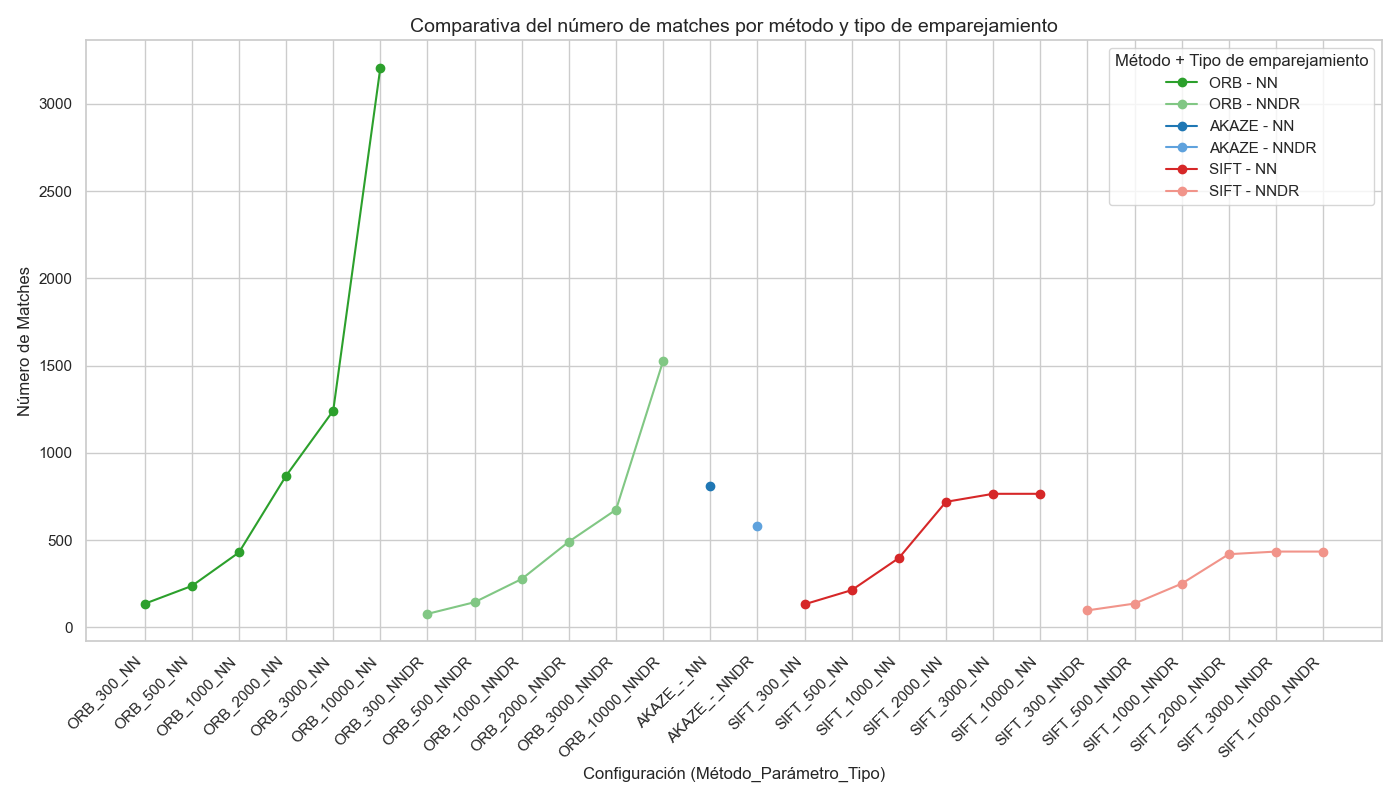
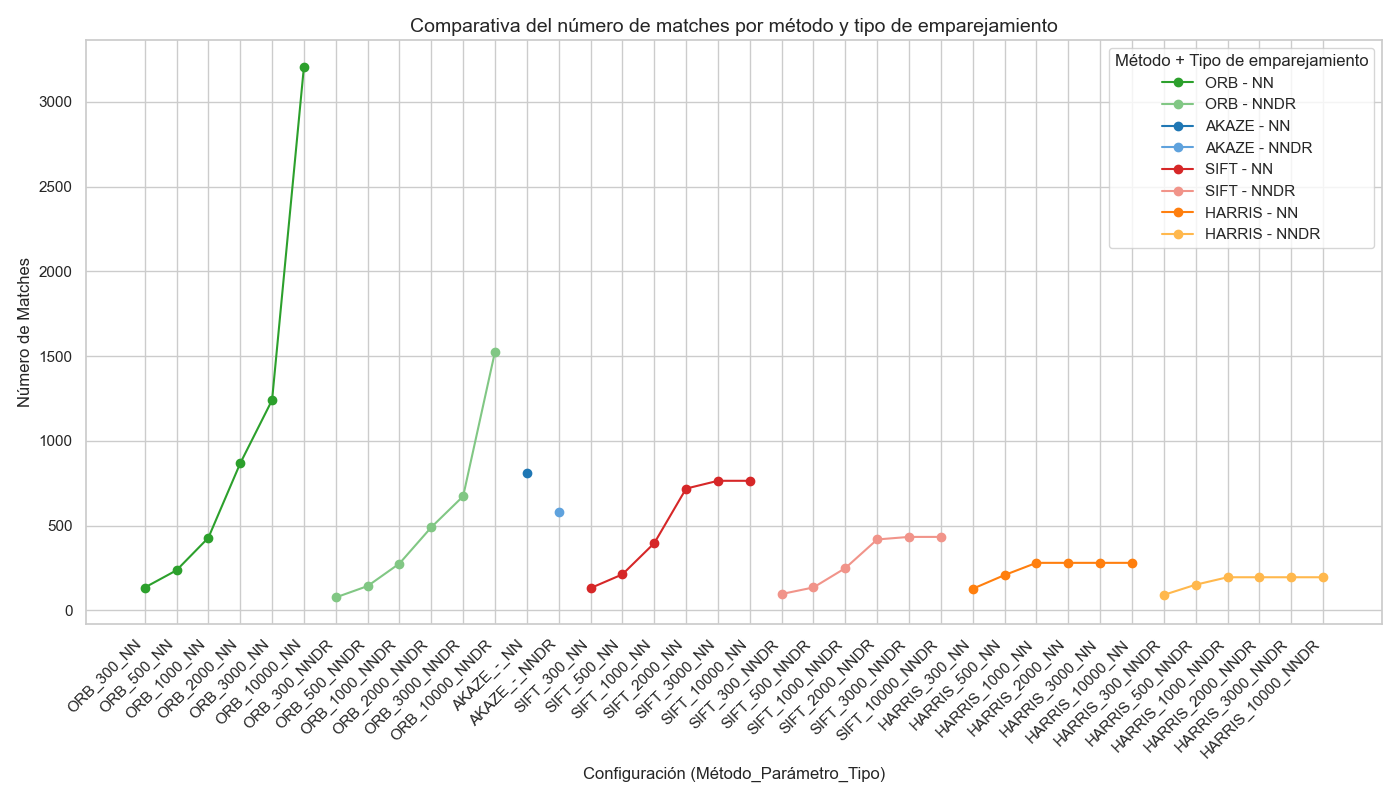
Harris final

diff --git a/P4_5/extract_and_compare.py b/P4_5/extract_and_compare.py
@@ -35,6 +35,8 @@ def detectar_harris(imagen, nfeatures):
     
     puntos = cv2.goodFeaturesToTrack(
         imagen,
+        minDistance=5,
+        qualityLevel=0.01,
         maxCorners=nfeatures,
         useHarrisDetector=True,
     )
@@ -42,7 +44,7 @@ def detectar_harris(imagen, nfeatures):
     if puntos is None:
         return [], None, time.time() - inicio
 
-    keypoints = [cv2.KeyPoint(float(p[1]), float(p[0]), 3) for p in puntos]
+    keypoints = [cv2.KeyPoint(float(p[0][0]), float(p[0][1]), 3) for p in puntos]
 
     # HARRIS no genera descriptores, usamos ORB para ello
     orb = inicializar_detector('ORB', nfeatures=nfeatures)
